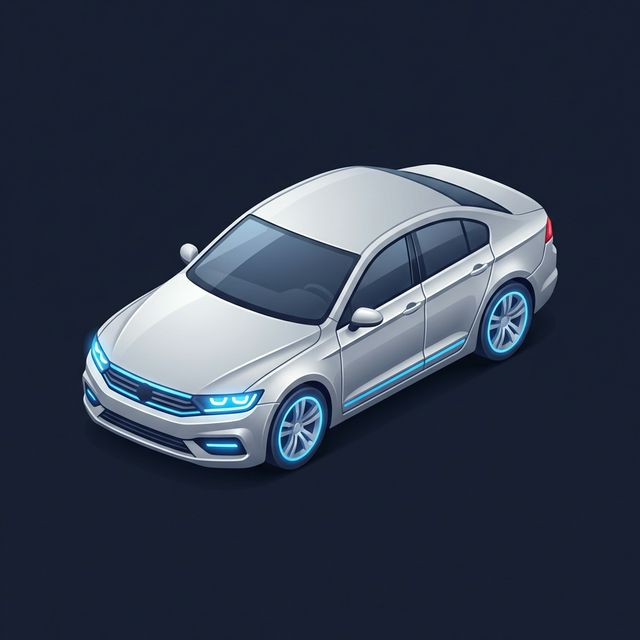
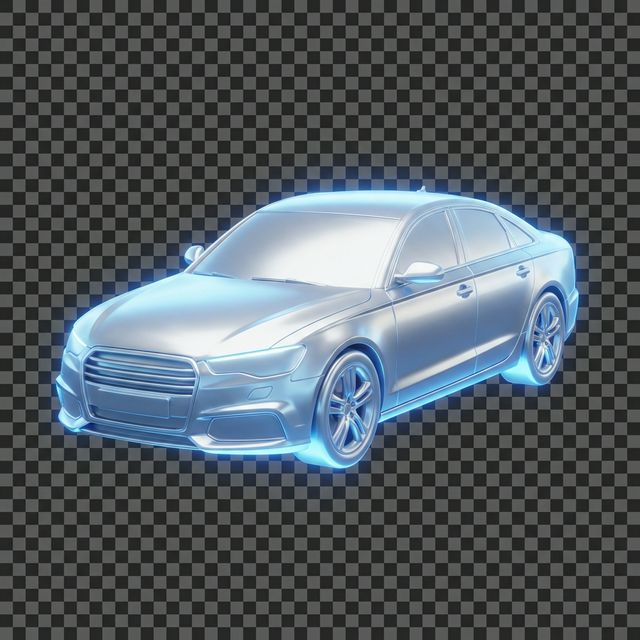
feat: use transparent 3D car images and increase their display size

diff --git a/src/components/BookingForm.module.css b/src/components/BookingForm.module.css
@@ -159,7 +159,7 @@
 }
 
 .carImageWrapper {
-    height: 60px;
+    height: 80px;
     display: flex;
     align-items: center;
     justify-content: center;
@@ -168,10 +168,10 @@
 }
 
 .carImage {
-    max-width: 90px;
+    max-width: 120px;
     height: auto;
     transition: transform 0.4s cubic-bezier(0.175, 0.885, 0.32, 1.275), filter 0.4s ease;
-    filter: drop-shadow(0 4px 6px rgba(0, 0, 0, 0.05));
+    filter: drop-shadow(0 4px 6px rgba(0, 0, 0, 0.1));
     will-change: transform;
 }
 

diff --git a/src/components/Tariffs.module.css b/src/components/Tariffs.module.css
@@ -48,8 +48,8 @@
 }
 
 .imageWrapper {
-    width: 120px;
-    height: 80px;
+    width: 180px;
+    height: 120px;
     margin-bottom: 15px;
     display: flex;
     align-items: center;
